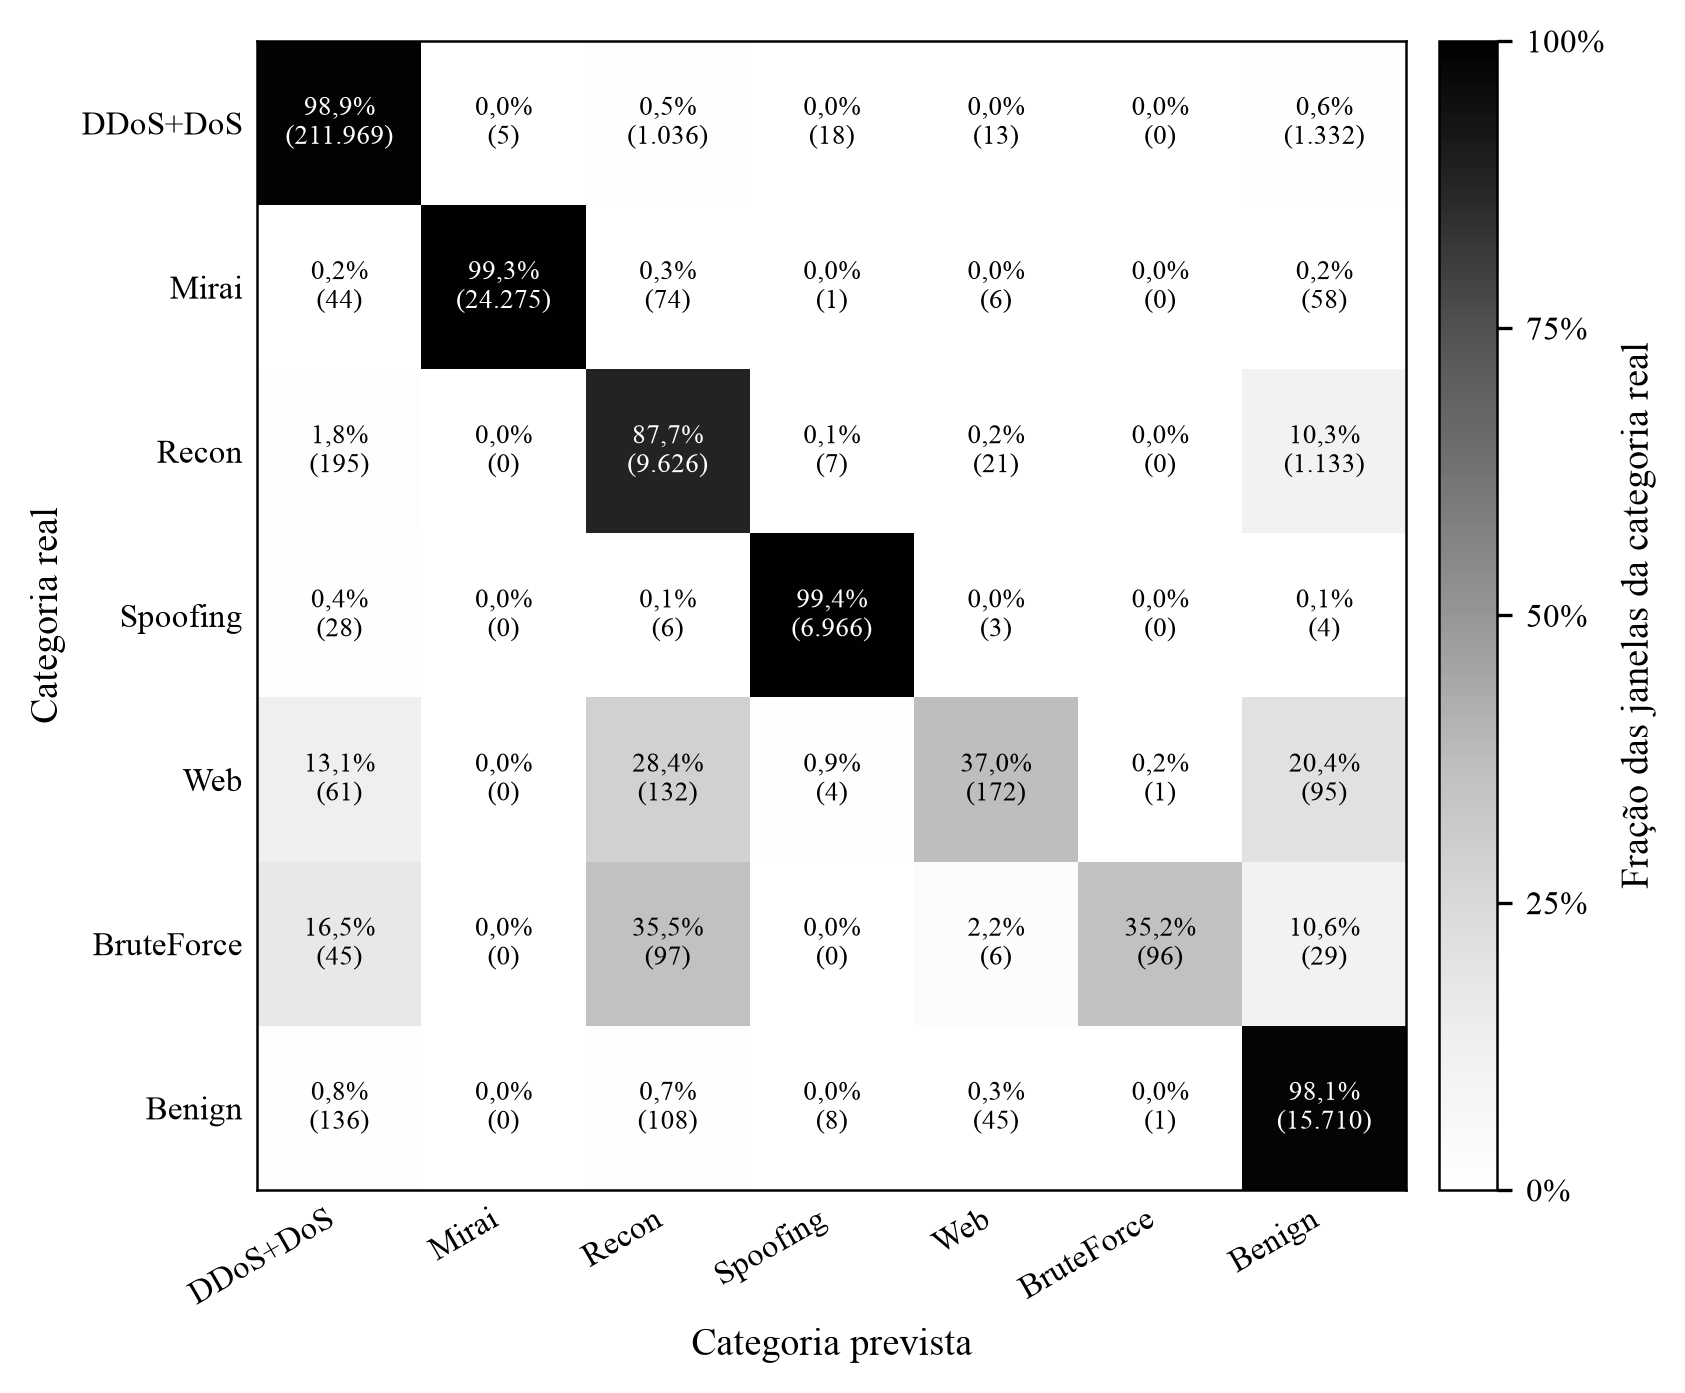
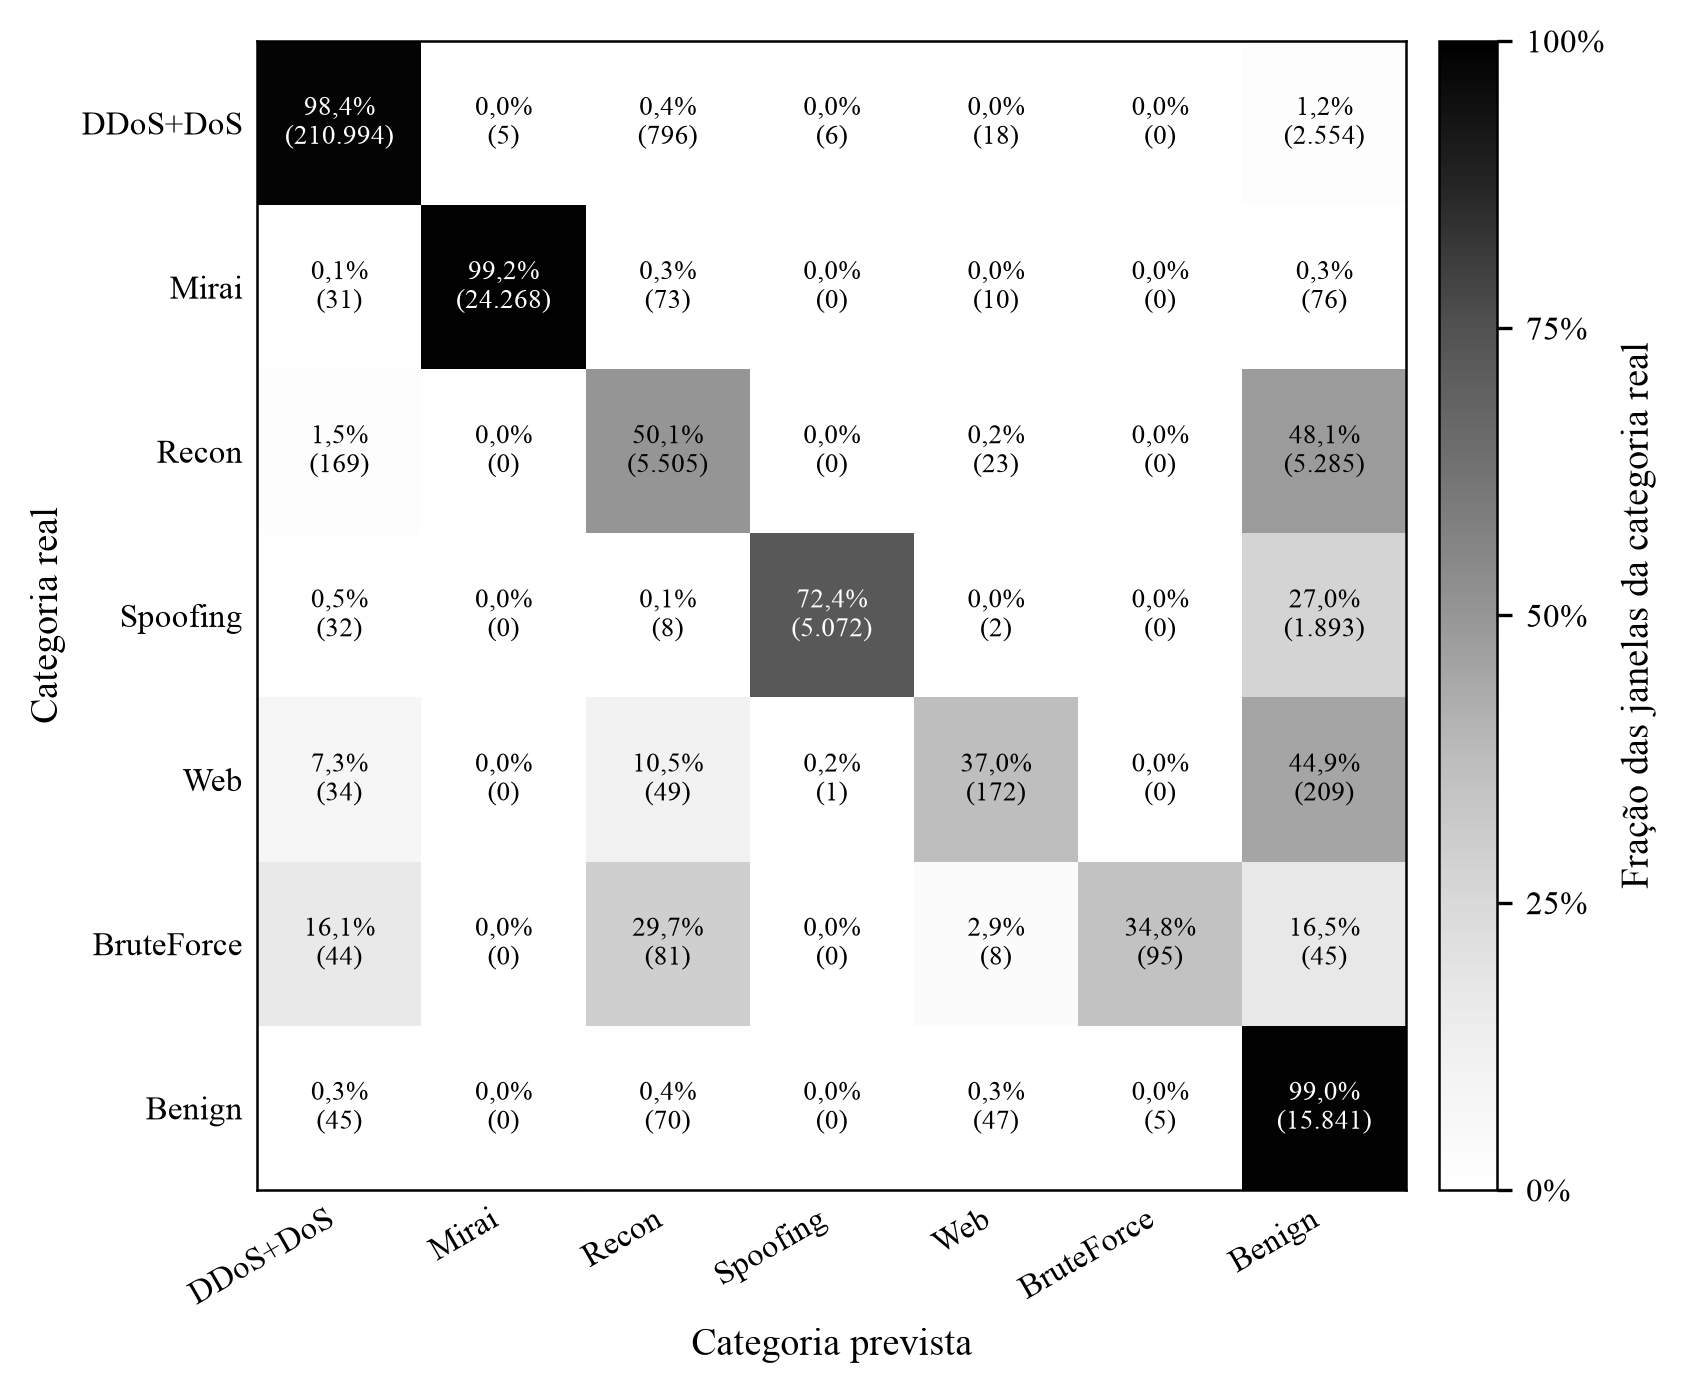
Figura da matriz de confusão do modelo do sistema, no ponto de operação
A figura lê regerado_janela_100_limiar.csv: o modelo da configuração 5
com t = 0,61, na parte de teste do corte por tempo. A nota do README
deixa de chamar a matriz de provisória e diz as ressalvas que a legenda
precisa trazer. O matplotlib e o pillow do requirements-figuras.txt
foram instalados no ambiente do repositório.

diff --git a/artigo/figuras/matriz_confusao.py b/artigo/figuras/matriz_confusao.py
@@ -1,10 +1,10 @@
 """Figura da matriz de confusão do modelo do sistema (dados regerados, janela de 100 quadros).
 
-ATENÇÃO: o modelo final ainda não está fechado. Faltam definir a proporção das classes no treino e
-rodar mais sementes (ver "Decisões em aberto" no ROADMAP.md). Quando o treino for refeito com
-`python -m codigo.classificador.treinar_regerado`, que regrava
-`experimentos/resultados/matrizes_confusao/regerado_janela_100.csv`, basta rodar este script de
-novo. Ele não guarda nenhum número: lê tudo do CSV.
+O modelo é o da configuração 5, com o fundo da parte de treino dos pcaps de ataque como benigno, e a
+matriz é a do ponto de operação: a janela é ataque se 1 − P(Benign) ≥ t, com o t escolhido na
+validação (decisões de 13/10/2026 no ROADMAP.md). `python -m codigo.classificador.treinar_regerado`
+regrava `experimentos/resultados/matrizes_confusao/regerado_janela_100_limiar.csv`; depois disso,
+basta rodar este script de novo. Ele não guarda nenhum número: lê tudo do CSV.
 
 Cada linha da matriz é uma categoria real, e cada célula traz a fração das janelas de teste daquela
 categoria que o modelo pôs em cada categoria prevista, com a contagem embaixo. A diagonal é o recall.
@@ -17,7 +17,7 @@ import pandas as pd
 
 from artigo.figuras.estilo import RESULTADOS, figura, porcento, salvar
 
-ARQUIVO = RESULTADOS / "matrizes_confusao" / "regerado_janela_100.csv"
+ARQUIVO = RESULTADOS / "matrizes_confusao" / "regerado_janela_100_limiar.csv"
 # Acima desta fração a célula é escura, e o texto dela sai em branco.
 CELULA_ESCURA = 0.55
 

diff --git a/artigo/figuras/README.md b/artigo/figuras/README.md
@@ -10,7 +10,7 @@ ativo (`pip install -r requirements.txt -r requirements-figuras.txt`).
 |---|---|---|---|
 | 1. Arquitetura do sistema | `arquitetura.mmd` | ROADMAP.md e `codigo/mcp/README.md` (descrição, sem dados) | `python -m artigo.figuras.diagramas arquitetura` |
 | 2. Fluxo de um incidente | `fluxo_incidente.mmd` | eventos do contrato (`codigo/mcp/contrato.json`), na ordem do log `codigo/mcp/exemplos/incidente_flood.jsonl` | `python -m artigo.figuras.diagramas fluxo_incidente` |
-| 3. Matriz de confusão do modelo de janela de 100 | `matriz_confusao.py` | `experimentos/resultados/matrizes_confusao/regerado_janela_100.csv` | `python -m artigo.figuras.matriz_confusao` |
+| 3. Matriz de confusão do modelo do sistema, no ponto de operação | `matriz_confusao.py` | `experimentos/resultados/matrizes_confusao/regerado_janela_100_limiar.csv` | `python -m artigo.figuras.matriz_confusao` |
 | 4. Teste da janela | `teste_da_janela.py` | `experimentos/resultados/teste_da_janela.csv` | `python -m artigo.figuras.teste_da_janela` |
 | 5. Janelas sem atacante | `janelas_sem_atacante.py` | `experimentos/resultados/janelas_sem_atacante.csv` | `python -m artigo.figuras.janelas_sem_atacante` |
 
@@ -26,10 +26,14 @@ As capturas da interface ainda não têm número, porque o esqueleto não as cit
 Os números das capturas são ilustrativos, do roteiro do stub MCP, como a própria tela avisa, e não
 podem ser citados como resultado. As horas aparecem no fuso de quem abre a página.
 
-**A matriz de confusão é provisória.** O modelo do sistema ainda pode mudar com as decisões em
-aberto de 11/10 no `ROADMAP.md` (fundo dos pcaps de ataque no treino e ponto de operação), e a
-legenda precisa trazer as ressalvas das rodadas de teste: a linha Benign é de um único pcap fora
-do treino, e o Spoofing depende de um artefato da captura. Quando `python -m
+**A matriz de confusão é a do modelo do sistema.** É o modelo da configuração 5, treinado com o
+fundo da parte de treino dos pcaps de ataque como benigno, no ponto de operação escolhido na
+validação (t = 0,61), na parte de teste do corte por tempo (decisões de 13/10/2026 no `ROADMAP.md`;
+`experimentos/resultados/regeracao.md`). A legenda precisa trazer as ressalvas dos controles: a
+linha Benign é de um único pcap fora do treino, e o alarme falso muda conforme o pcap benigno que
+fica de fora (`ponto_de_operacao.md`); o recall com o pcap inteiro fora do treino é bem menor que
+o da diagonal em Recon, Web e Spoofing (`rodadas_normalizadas.md`); e o Spoofing depende de um
+artefato da captura (`rodadas_de_teste.md`, rodada f). Quando `python -m
 codigo.classificador.treinar_regerado` regravar o CSV, basta rodar `matriz_confusao.py` de novo.
 
 ## Dependências
